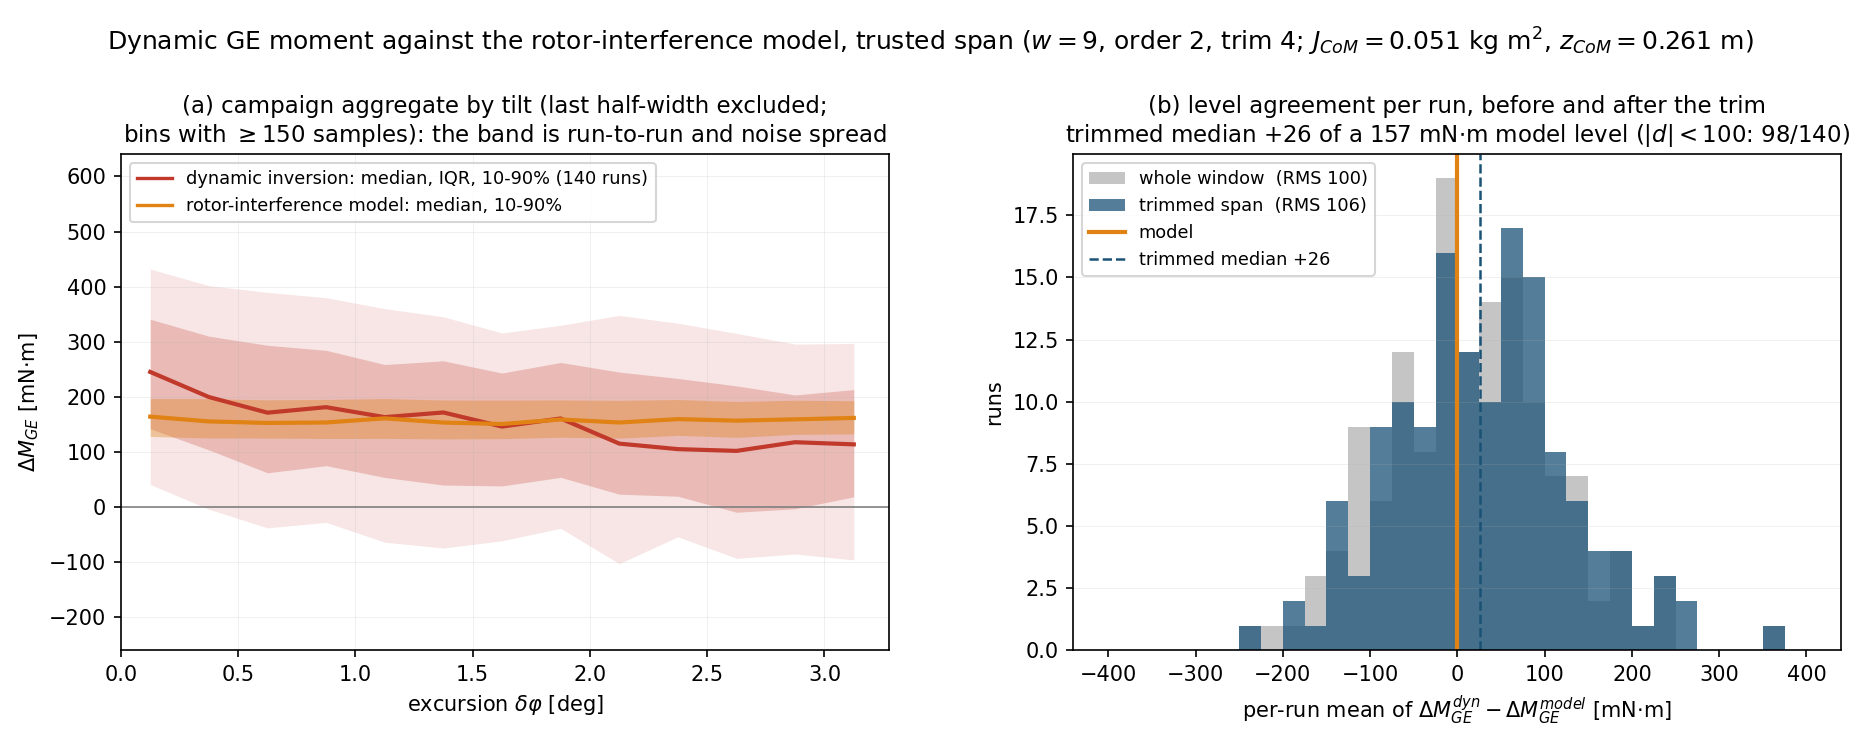
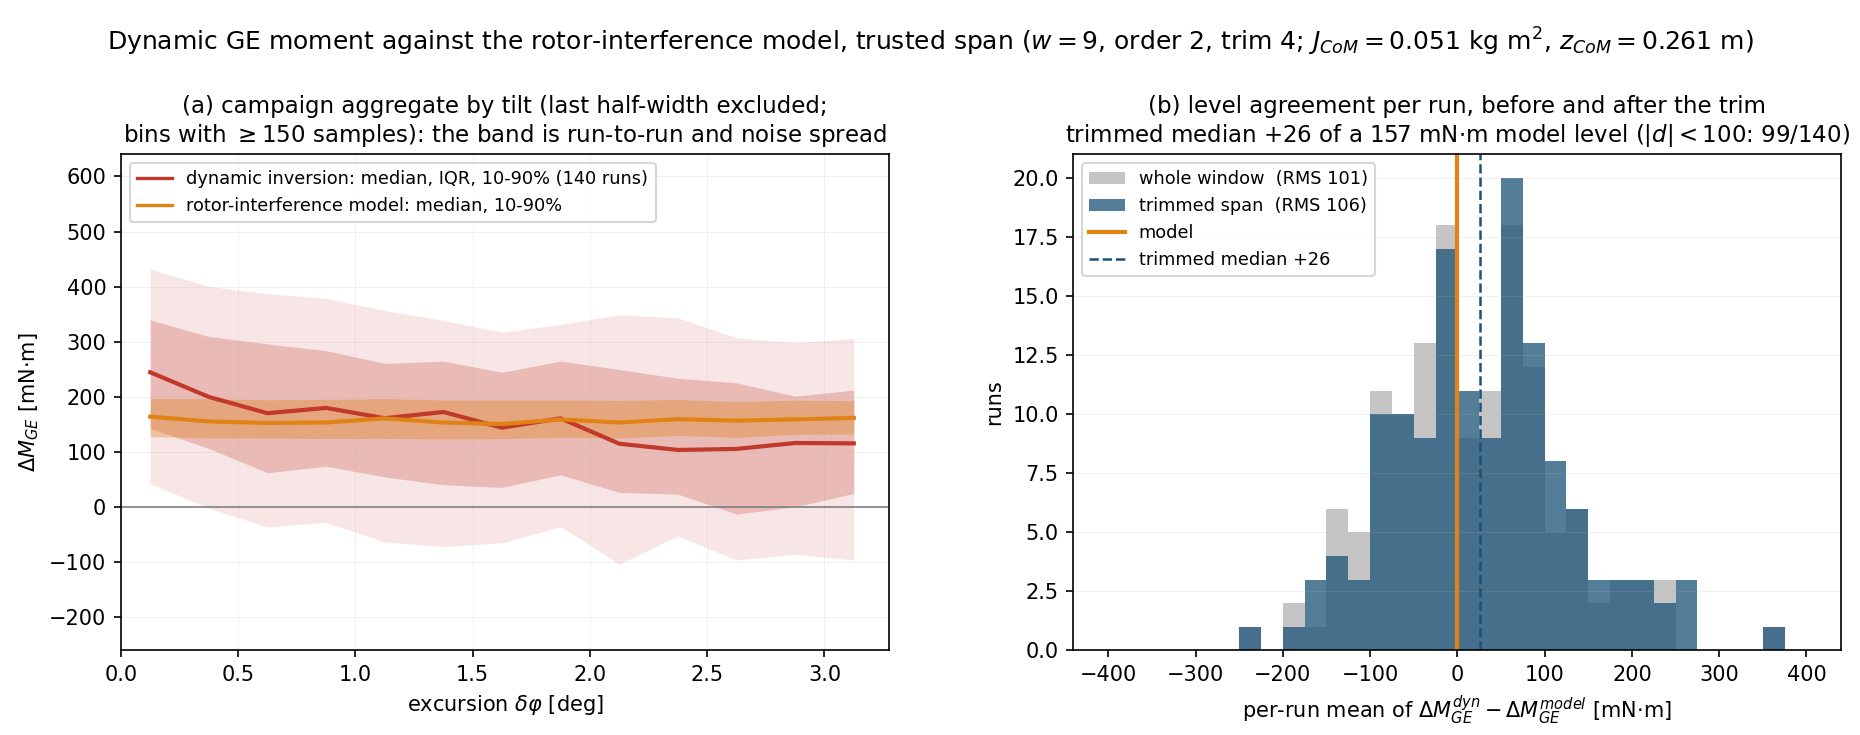
Include the CoM offset in the parallel-axis J_P
The horizontal leg of the parallel-axis distance now carries the
CoM-offset component perpendicular to the pivot line: J_P = J_CoM +
m (z^2 + (l_p + s lambda)^2), which makes J_P direction-dependent
(up to ~4%).  Dataset-level extraction keeps the nominal value; the
per-run inversion uses the corrected one.

Effect is small, as the CAD-uncertainty argument predicted: overall
trimmed median +25.5 (RMS 106, |d| < 100 on 99/140, was 98).  The one
visible move is Mx pos, +11 -> +1.3 mN.m -- the offset correction
pulls the roll positive-tip group onto the model -- while Mx neg
stays at -55, so the roll direction asymmetry is not a J_P artefact.

Claude-Session: https://claude.ai/code/session_01BM6bcsm1ZtLtgegEeuFDVS

diff --git a/analysis/ge_trusted_span.py b/analysis/ge_trusted_span.py
@@ -22,8 +22,8 @@ rotor heights are taken along the pad normal rather than world
 vertical (the pad is not level; see analysis/attitude_reference.py).
 
 Campaign result at the deployed differentiator: median d = +26 mN.m
-(IQR -42..+86, RMS 106) of a 157 mN.m model level, |d| < 100 on
-98/140 runs, 4.75 deg median tilt left.  The wider 41-sample window
+(IQR -43..+85, RMS 106) of a 157 mN.m model level, |d| < 100 on
+99/140 runs, 4.75 deg median tilt left.  The wider 41-sample window
 does worse (median +77, RMS 128, 1.6 deg left): its parabola clips
 more of the sinh growth and its exclusion spends more of the
 excursion.  The SLOPE (attitude dependence) is deliberately not
@@ -34,8 +34,12 @@ Panel (a) aggregates the campaign by tilt -- median, IQR and 10-90%
 bands over all trusted-span samples in 0.25 deg bins (>= 150 samples
 per bin) -- rather than drawing 140 individual traces.
 
-Constants: J_CoM = 0.051 kg m^2 (CAD Table 5), J_P by the parallel
-axis, z_CoM = 0.261 m.
+Constants: J_CoM = 0.051 kg m^2 (CAD Table 5), z_CoM = 0.261 m, and
+J_P by the parallel axis WITH the CoM offset in the horizontal leg:
+J_P = J_CoM + m (z^2 + (l_p + s lambda)^2), the offset component
+perpendicular to the pivot line, so J_P is direction-dependent (a
+<= 4% effect; Mx pos moves from +11 to +1 mN.m, everything else
+within a few mN.m).
 
 Usage: PYTHONPATH=<stubs> [GE_W=9] [GE_K=4]
        python analysis/ge_trusted_span.py [out.png]
@@ -59,8 +63,9 @@ sys.path.insert(0, _HERE)
 import critical_value_getter_piecewise as cvp             # noqa: E402
 from utils.extractor import load_excitation_dataset       # noqa: E402
 from utils import math_tools                              # noqa: E402
+from error_budget import LP                               # noqa: E402
 from analysis.ge_dynamics_check import (                  # noqa: E402
-    MASS_KG, G, OFF_SIGN, OFF_MM, j_parallel, analyse)
+    MASS_KG, G, OFF_SIGN, OFF_MM, J_COM, j_parallel, analyse)
 
 Z = 0.261
 W_SG = int(os.environ.get('GE_W', '9'))     # SG window (deployed 9, order 2)
@@ -78,7 +83,7 @@ def collect():
         mass = MASS_KG[case]
         analyse.W = mass * G
         analyse.off_truth = OFF_SIGN[axname] * OFF_MM[(case, axname)] * 1e-3
-        j_p = j_parallel(axis, Z, mass)
+        j_p = j_parallel(axis, Z, mass)      # dataset-level, for extraction
         try:
             with contextlib.redirect_stdout(io.StringIO()):
                 bags = load_excitation_dataset(d)
@@ -110,8 +115,15 @@ def collect():
                     sig, roll if axis == 'x' else pitch, qr)
             sig, phi_all, qr = cache[crit.bag_name]
             nn = min(len(phi_all), len(sig['t']))
-            r = analyse(bag, crit, axis, sig, phi_all, nn, Z, j_p, W_SG,
-                        q_rest=qr)
+            # parallel-axis J_P with the CoM offset in the horizontal
+            # leg: the offset component perpendicular to the pivot line
+            # (the tipping-sense lambda) adds to l_p, so J_P is
+            # direction-dependent
+            s_dir = 1.0 if crit.bag_name.startswith('pos') else -1.0
+            arm_jp = LP[axis] + s_dir * analyse.off_truth
+            j_p_run = J_COM[axis] + mass * (Z ** 2 + arm_jp ** 2)
+            r = analyse(bag, crit, axis, sig, phi_all, nn, Z, j_p_run,
+                        W_SG, q_rest=qr)
             if r and 'trace' in r:
                 r.update(case=case, axisname=axname)
                 rows.append(r)
